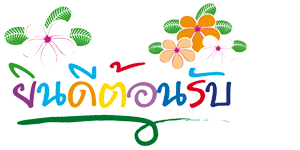
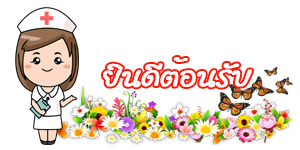
Test8
Test8

diff --git a/index.html b/index.html
@@ -16,7 +16,7 @@
 	</div>
 	<div data-role="content" >
     <div align="center">
-      <img src="pic/emphome.png" width="120" height="120"> </div>
+      <img src="pic/logovaccine.png" width="120" height="120"> </div>
 
 
       

diff --git a/mainmenu.php b/mainmenu.php
@@ -16,7 +16,7 @@
 	</div>
 	<div data-role="content" >
     <div align="center">
-      <img src="pic/emphome.png" width="120" height="120"> </div>
+      <img src="pic/logovaccine.png" width="120" height="120"> </div>
        <font size="4"> <ul data-inset="true" data-role="listview" data-theme="b">
 		  <li><a href="http://112.121.150.67/thaivaccine/popuplogin.php" data-rel="dialog" data-transition="pop">เข้าสู่ระบบ</a></li>
             <li><a href="http://www.osstec.co.th">เยี่ยมชมเว็บไซต์</a></li>

diff --git a/login.php b/login.php
@@ -53,7 +53,7 @@ $_SESSION["strUserID"] = $objResult["adminh_id"];
 	<div style="padding-left:10px;padding-right:10px">
 		
         <div align="center">
-      <img src="pic/welcome1.png" width="240" height="120"> </div>
+      <img src="pic/welcome.png" width="240" height="120"> </div>
 		<div data-role="fieldcontain" align="center">
 			<font size="4" color="#990000"><label for="name">ชื่อผู้ใช้ : </label><? echo $objResult["adminh_name"];?></font>
 		</div>

diff --git a/mainadminh.php b/mainadminh.php
@@ -48,7 +48,7 @@ $objResult = mysql_fetch_array($objQuery);
 		<div style="padding-left:10px;padding-right:10px">
  
 <div align="right">
-      <img src="pic/datastud.png" width="250" height="80"> 			</div>
+      <img src="pic/temperature.png" width="250" height="80"> 			</div>
  
  
 	<div data-role="fieldcontain">
